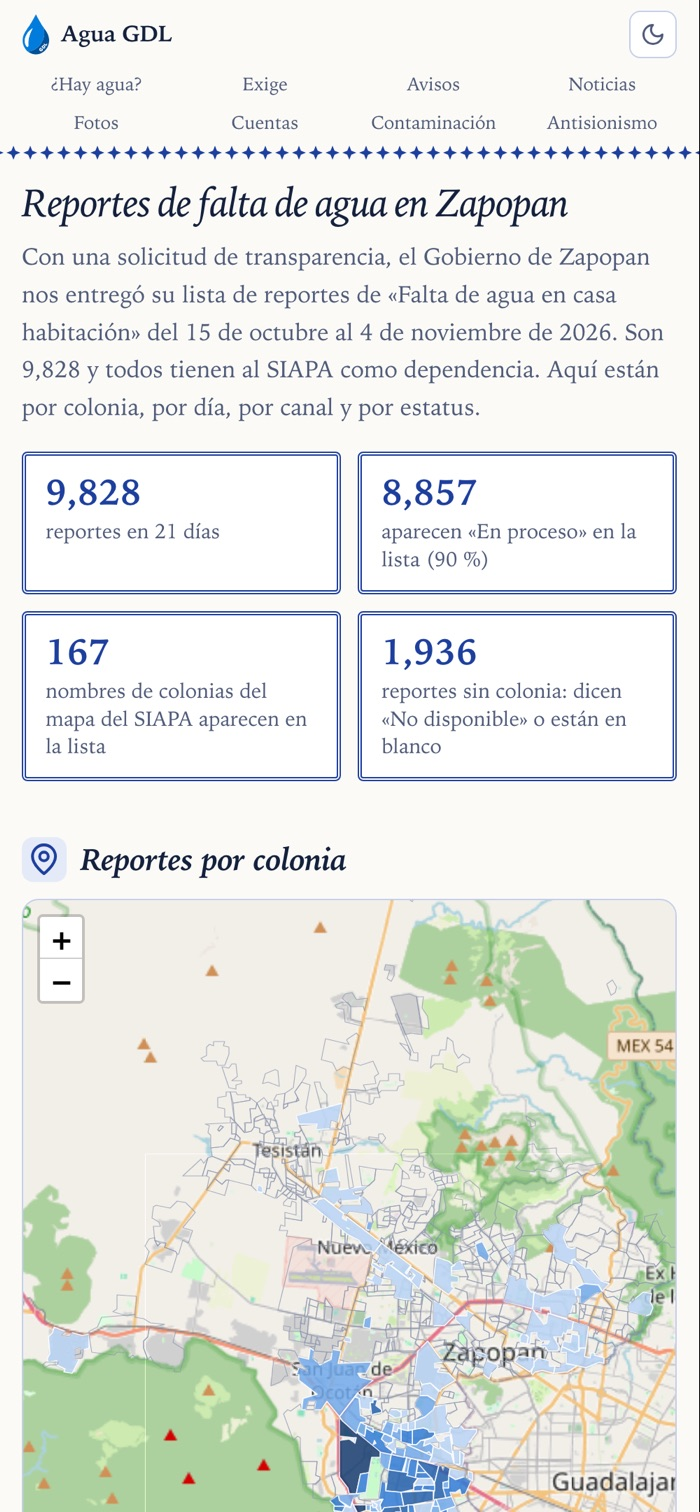
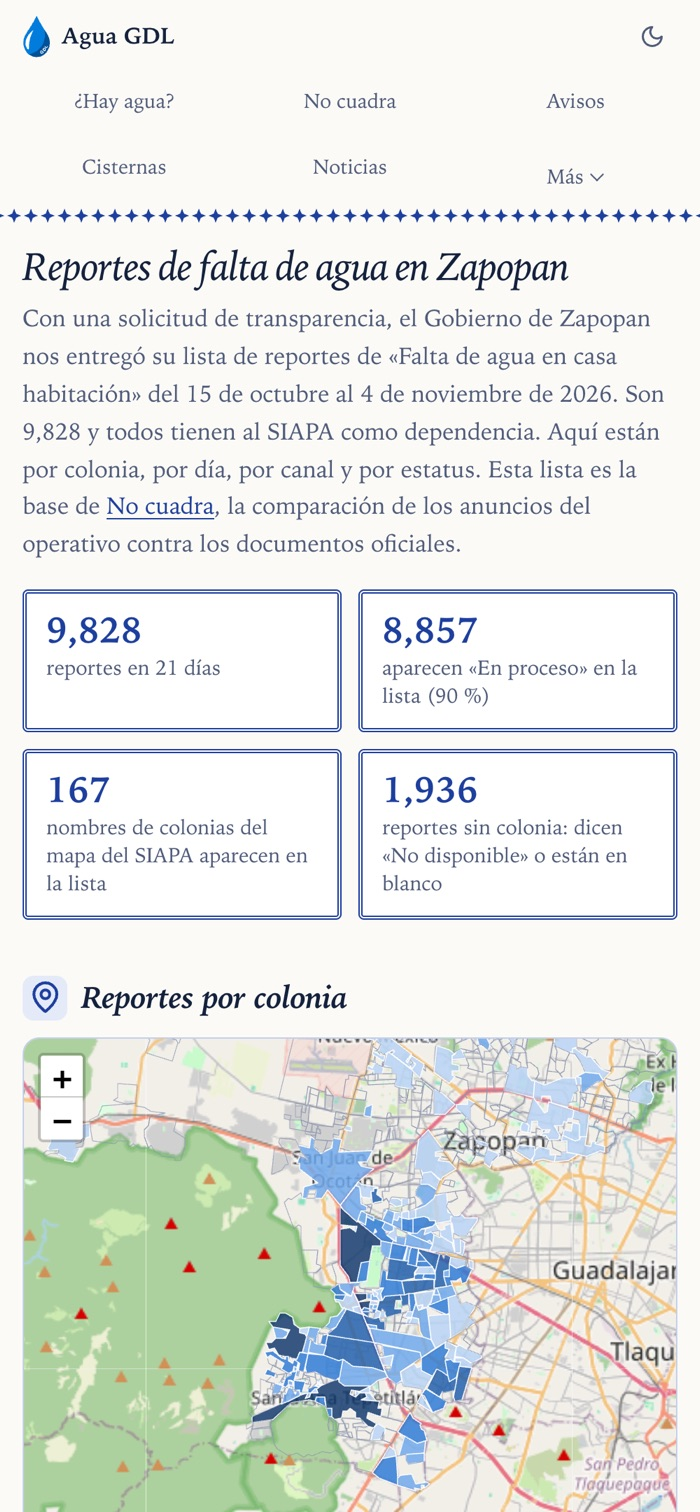
Carousel 22: pan the /reportes-zapopan phone map south
The page's map fits every Zapopan colonia, so the 1080 px phone crop showed the empty north and cut the urban core. mapa.mjs drags the map through DevTools before the screenshot (PANEO in build.py), and --capturas now takes page names so one retake leaves the other captures alone.

diff --git a/experiments/carrusel/build.py b/experiments/carrusel/build.py
@@ -4,7 +4,7 @@
     python3 experiments/carrusel/build.py               check every carousel, render all, write FUENTES.md and contact sheets
     python3 experiments/carrusel/build.py 01-maximo     only carousels whose id starts with this
     python3 experiments/carrusel/build.py --check       validate only (no Chrome)
-    python3 experiments/carrusel/build.py --capturas    retake the aguagdl.com phone screenshots in capturas/
+    python3 experiments/carrusel/build.py --capturas    retake the aguagdl.com phone screenshots in capturas/ (or only the pages named)
 
 Checks before rendering: every number written on a slide appears in the "cita" of a source the slide cites
 (or in the slide's "calculo", which says how it was computed); every source has url, medio, fecha, cita and
@@ -615,18 +615,24 @@ def fuentes_md(c):
 PAGINAS = {"reportes": "reportes", "promesas": "promesas", "pipas": "pipas", "exige": "exige", "avisos": "avisos",
            "ciudad-granja": "reportes?q=CIUDAD%20GRANJA&m=Zapopan&cp=45010", "reportes-zapopan": "reportes-zapopan"}
 DESDE = {"promesas": 520, "ciudad-granja": 75}  # CSS px to skip at the top (/promesas starts at its meter, not its opening stance)
+PANEO = {"reportes-zapopan": 250}  # CSS px to drag the map up (pan south) when its fit leaves the reports below the frame (mapa.mjs)
 
 
-def capturas():
+def capturas(solo):
     """Retake the phone screenshots of aguagdl.com used by the sitio slides (500 CSS px wide, 2x)."""
     (HERE / "capturas").mkdir(exist_ok=True)
     for p, path in PAGINAS.items():
+        if solo and p not in solo:
+            continue
         png = HERE / "capturas" / f"{p}.png"
         top = DESDE.get(p, 0)
-        subprocess.run([CHROME, "--headless=new", "--disable-gpu", "--hide-scrollbars", "--force-device-scale-factor=2",
-                        "--virtual-time-budget=10000", f"--window-size=500,{1080 + top + CHROME_BAR}", f"--screenshot={png}",
-                        f"https://aguagdl.com/{path}"], check=True, capture_output=True)
-        subprocess.run(["sips", "-c", "2160", "1000", "--cropOffset", str(2 * top + 1), "1", str(png)], check=True, capture_output=True)
+        if p in PANEO:
+            subprocess.run(["node", str(HERE / "mapa.mjs"), f"https://aguagdl.com/{path}", str(png), str(top), str(PANEO[p])], check=True)
+        else:
+            subprocess.run([CHROME, "--headless=new", "--disable-gpu", "--hide-scrollbars", "--force-device-scale-factor=2",
+                            "--virtual-time-budget=10000", f"--window-size=500,{1080 + top + CHROME_BAR}", f"--screenshot={png}",
+                            f"https://aguagdl.com/{path}"], check=True, capture_output=True)
+            subprocess.run(["sips", "-c", "2160", "1000", "--cropOffset", str(2 * top + 1), "1", str(png)], check=True, capture_output=True)
         jpg = png.with_suffix(".jpg")
         subprocess.run(["sips", "-s", "format", "jpeg", "-s", "formatOptions", "80", "-Z", "1512", str(png), "--out", str(jpg)],
                        check=True, capture_output=True)
@@ -636,7 +642,7 @@ def capturas():
 
 def main():
     if "--capturas" in sys.argv:
-        return capturas()
+        return capturas([a for a in sys.argv[1:] if not a.startswith("--")])
     args = [a for a in sys.argv[1:] if not a.startswith("--")]
     only_check = "--check" in sys.argv
     fotos_ok = set(json.loads((HERE / "fotos.json").read_text())["fotos"])
